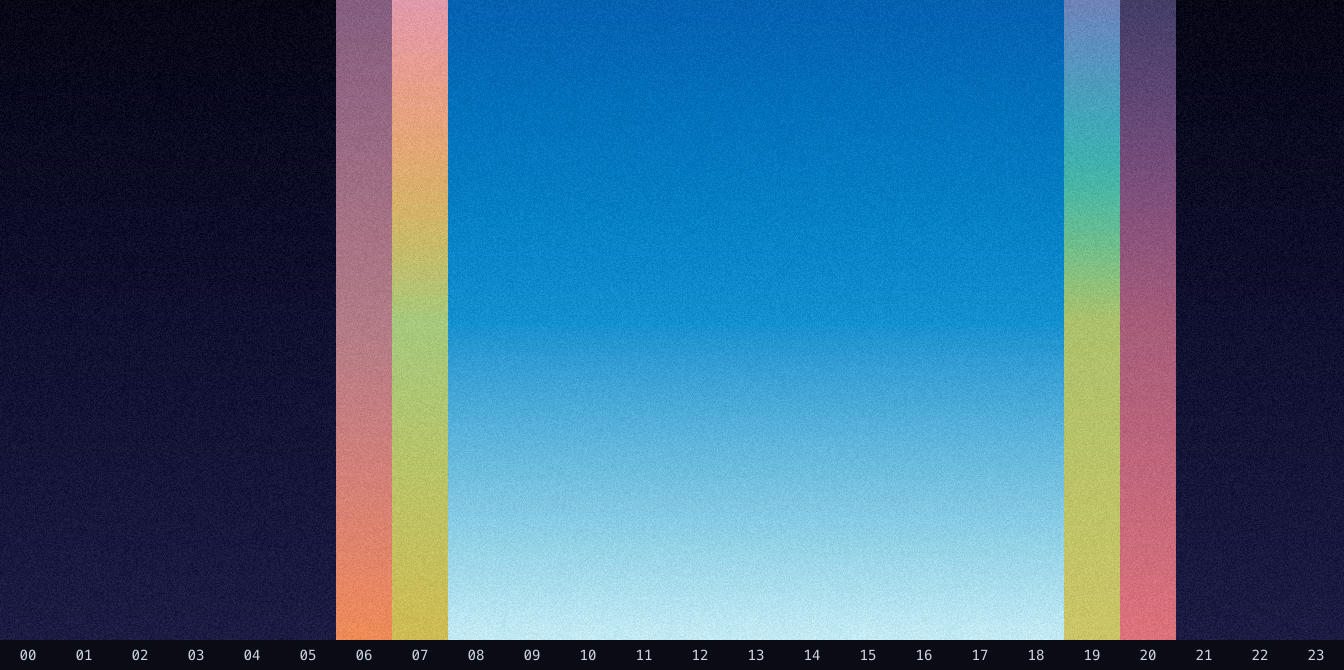
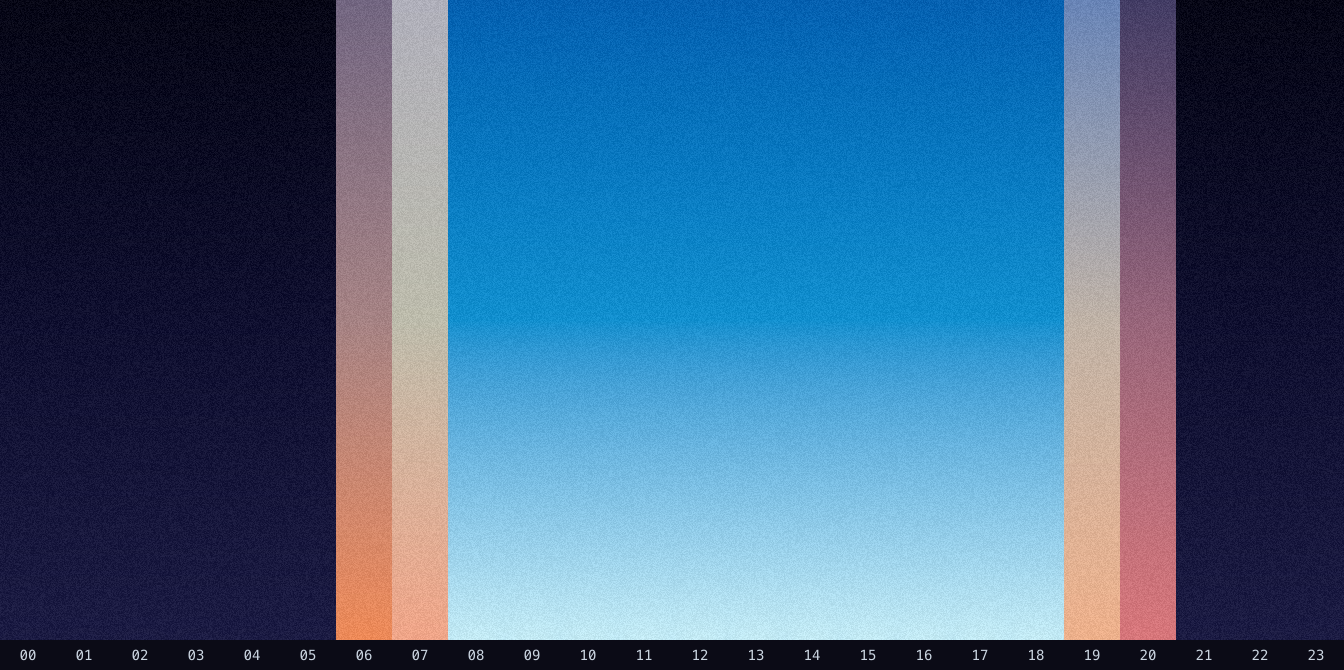
fix(color): replace custom OKLCH blending with culori OKLab
Switch from a custom OKLCH implementation to OKLab via the culori library,
fixing the green hue that appeared during sunset transitions when interpolating
between blue day and warm sunset colors.

Changed region(s): [[0.25, 0.0, 0.3438, 0.9552], [0.7812, 0.0597, 0.875, 0.9552]]

diff --git a/lib/color.ts b/lib/color.ts
@@ -1,84 +1,34 @@
-// Perceptual colour mixing in OKLCH (Björn Ottosson's OKLab in polar form).
-// Blending in OKLCH keeps lightness and chroma perceptually even across the
-// warm/cool sunset transitions, instead of dipping through the muddy grey
-// mid-tones that a naive sRGB lerp produces.
+import { interpolate, converter, clampRgb, formatHex } from 'culori'
 
-export type Oklab = [number, number, number] // L, a, b
-export type Oklch = [number, number, number] // L, C, h (radians)
+// Perceptual colour mixing in OKLab (via culori). OKLab interpolates lightness
+// and the a/b axes directly, so warm/cool transitions pass through a neutral
+// midpoint instead of arcing through unrelated hues (the green that OKLCH's
+// shortest hue path produced between the blue day palette and warm sunsets).
 
-function srgbToLinear(c: number): number {
-  c /= 255
-  return c <= 0.04045 ? c / 12.92 : Math.pow((c + 0.055) / 1.055, 2.4)
+const toRgb = converter('rgb')
+
+/** Blend two colours in OKLab and return a hex string. */
+export function mixHex(a: string, b: string, t: number): string {
+  return formatHex(interpolate([a, b], 'oklab')(t))
 }
 
-function linearToSrgb(c: number): number {
-  const v = c <= 0.0031308 ? c * 12.92 : 1.055 * Math.pow(c, 1 / 2.4) - 0.055
-  return Math.round(Math.max(0, Math.min(1, v)) * 255)
+export interface Ramp {
+  /** sRGB bytes [r, g, b] at position t in [0,1]. */
+  rgbAt(t: number): [number, number, number]
+  /** Hex colour at position t in [0,1]. */
+  hexAt(t: number): string
 }
 
-export function hexToOklab(hex: string): Oklab {
-  const r = srgbToLinear(parseInt(hex.slice(1, 3), 16))
-  const g = srgbToLinear(parseInt(hex.slice(3, 5), 16))
-  const b = srgbToLinear(parseInt(hex.slice(5, 7), 16))
-  const l = Math.cbrt(0.4122214708 * r + 0.5363325363 * g + 0.0514459929 * b)
-  const m = Math.cbrt(0.2119034982 * r + 0.6806995451 * g + 0.1073969566 * b)
-  const s = Math.cbrt(0.0883024619 * r + 0.2817188376 * g + 0.6299787005 * b)
-  return [
-    0.2104542553 * l + 0.7936177850 * m - 0.0040720468 * s,
-    1.9779984951 * l - 2.4285922050 * m + 0.4505937099 * s,
-    0.0259040371 * l + 0.7827717662 * m - 0.8086757660 * s,
-  ]
-}
-
-export function oklabToRgb([L, a, b]: Oklab): [number, number, number] {
-  const l_ = L + 0.3963377774 * a + 0.2158037573 * b
-  const m_ = L - 0.1055613458 * a - 0.0638541728 * b
-  const s_ = L - 0.0894841775 * a - 1.2914855480 * b
-  const l = l_ * l_ * l_
-  const m = m_ * m_ * m_
-  const s = s_ * s_ * s_
-  return [
-    linearToSrgb(4.0767416621 * l - 3.3077115913 * m + 0.2309699292 * s),
-    linearToSrgb(-1.2684380046 * l + 2.6097574011 * m - 0.3413193965 * s),
-    linearToSrgb(-0.0041960863 * l - 0.7034186147 * m + 1.7076147010 * s),
-  ]
-}
-
-export function oklabToOklch([L, a, b]: Oklab): Oklch {
-  let h = Math.atan2(b, a)
-  if (h < 0) h += 2 * Math.PI
-  return [L, Math.hypot(a, b), h]
-}
-
-export function oklchToOklab([L, C, h]: Oklch): Oklab {
-  return [L, C * Math.cos(h), C * Math.sin(h)]
-}
-
-export function hexToOklch(hex: string): Oklch {
-  return oklabToOklch(hexToOklab(hex))
-}
-
-function rgbToHex([r, g, b]: [number, number, number]): string {
-  return '#' + [r, g, b].map(c => c.toString(16).padStart(2, '0')).join('')
-}
-
-export function oklchToRgb(c: Oklch): [number, number, number] {
-  return oklabToRgb(oklchToOklab(c))
-}
-
-export function oklchToHex(c: Oklch): string {
-  return rgbToHex(oklchToRgb(c))
-}
-
-// Interpolate two OKLCH colours, taking the shortest path around the hue circle
-// and carrying a defined hue when the other endpoint is (near-)achromatic.
-export function mixOklch(a: Oklch, b: Oklch, t: number): Oklch {
-  let [L1, C1, h1] = a
-  let [L2, C2, h2] = b
-  if (C1 < 1e-4) h1 = h2
-  else if (C2 < 1e-4) h2 = h1
-  let dh = h2 - h1
-  if (dh > Math.PI) dh -= 2 * Math.PI
-  else if (dh < -Math.PI) dh += 2 * Math.PI
-  return [L1 + (L2 - L1) * t, C1 + (C2 - C1) * t, h1 + dh * t]
+/** A three-stop ramp (core -> mid -> edge, evenly spaced) interpolated in OKLab. */
+export function makeRamp(core: string, mid: string, edge: string): Ramp {
+  const interp = interpolate([core, mid, edge], 'oklab')
+  return {
+    rgbAt(t) {
+      const { r, g, b } = clampRgb(toRgb(interp(t)))
+      return [Math.round(r * 255), Math.round(g * 255), Math.round(b * 255)]
+    },
+    hexAt(t) {
+      return formatHex(interp(t))
+    },
+  }
 }

diff --git a/lib/image.ts b/lib/image.ts
@@ -1,35 +1,22 @@
-import type { SkyColors } from './sky-color'
-import { hexToOklch, mixOklch, oklchToHex, oklchToRgb } from './color'
-import type { Oklch } from './color'
+import type { SkyColors } from './sky-color.js'
+import { makeRamp } from './color.js'
 
 // The glow radiates from a point centred on the bottom edge (the horizon).
 // Horizontal distance is compressed so the gradient stays vertical-dominant —
 // a tall sunset arc rather than a perfect circle — on wide canvases.
 const HORIZ_FACTOR = 0.45
-// Offset of the mid colour stop between core (0) and edge (1).
-const MID_STOP = 0.5
 // Peak-to-peak amplitude of the luminance grain.
 const GRAIN = 20
 // Resolution of the precomputed colour ramp.
 const LUT_STEPS = 1024
 
-// Sample the three-stop ramp (core -> mid -> edge) at t in [0,1], interpolating
-// perceptually in OKLCH.
-function sampleRamp(core: Oklch, mid: Oklch, edge: Oklch, t: number): Oklch {
-  return t < MID_STOP
-    ? mixOklch(core, mid, t / MID_STOP)
-    : mixOklch(mid, edge, (t - MID_STOP) / (1 - MID_STOP))
-}
-
 export function generateSvg({ core, mid, edge }: SkyColors, width = 1920, height = 1080): string {
-  const c = hexToOklch(core)
-  const m = hexToOklch(mid)
-  const e = hexToOklch(edge)
-  // Bake intermediate stops so the SVG gradient follows the OKLCH path too,
+  const ramp = makeRamp(core, mid, edge)
+  // Bake intermediate stops so the SVG gradient follows the OKLab path too,
   // rather than letting the renderer lerp in sRGB.
   const stops = Array.from({ length: 9 }, (_, k) => {
     const t = k / 8
-    return `<stop offset="${(t * 100).toFixed(1)}%" stop-color="${oklchToHex(sampleRamp(c, m, e, t))}"/>`
+    return `<stop offset="${(t * 100).toFixed(1)}%" stop-color="${ramp.hexAt(t)}"/>`
   }).join('\n      ')
 
   return `<svg xmlns="http://www.w3.org/2000/svg" width="${width}" height="${height}" viewBox="0 0 ${width} ${height}">
@@ -48,15 +35,13 @@ export function generateSvg({ core, mid, edge }: SkyColors, width = 1920, height
 }
 
 export async function generatePng({ core, mid, edge }: SkyColors, width = 1920, height = 1080): Promise<Buffer> {
-  const c = hexToOklch(core)
-  const m = hexToOklch(mid)
-  const e = hexToOklch(edge)
+  const ramp = makeRamp(core, mid, edge)
 
   // Precompute the colour ramp once (perceptual conversion is the costly part);
   // the per-pixel loop is then just a table lookup plus grain.
   const lut = new Uint8Array((LUT_STEPS + 1) * 3)
   for (let k = 0; k <= LUT_STEPS; k++) {
-    const [r, g, b] = oklchToRgb(sampleRamp(c, m, e, k / LUT_STEPS))
+    const [r, g, b] = ramp.rgbAt(k / LUT_STEPS)
     lut[k * 3] = r
     lut[k * 3 + 1] = g
     lut[k * 3 + 2] = b

diff --git a/lib/sky-color.ts b/lib/sky-color.ts
@@ -1,7 +1,7 @@
-import { SKY_PHASES } from './constants'
-import type { SkyPhase } from './constants'
-import { hexToOklch, mixOklch, oklchToHex } from './color'
-import type { DayTimes } from './weather'
+import { SKY_PHASES } from './constants.js'
+import type { SkyPhase } from './constants.js'
+import { mixHex } from './color.js'
+import type { DayTimes } from './weather.js'
 
 export interface SkyColors {
   core: string
@@ -9,15 +9,11 @@ export interface SkyColors {
   edge: string
 }
 
-function lerpColor(a: string, b: string, t: number): string {
-  return oklchToHex(mixOklch(hexToOklch(a), hexToOklch(b), t))
-}
-
 function lerp(phaseA: SkyPhase, phaseB: SkyPhase, t: number): SkyColors {
   return {
-    core: lerpColor(phaseA.core, phaseB.core, t),
-    mid: lerpColor(phaseA.mid, phaseB.mid, t),
-    edge: lerpColor(phaseA.edge, phaseB.edge, t),
+    core: mixHex(phaseA.core, phaseB.core, t),
+    mid: mixHex(phaseA.mid, phaseB.mid, t),
+    edge: mixHex(phaseA.edge, phaseB.edge, t),
   }
 }
 

diff --git a/api/sky.ts b/api/sky.ts
@@ -1,8 +1,8 @@
 import type { VercelRequest, VercelResponse } from '@vercel/node'
-import { getWeatherData } from '../lib/weather'
-import { getSkyColors } from '../lib/sky-color'
-import { generateSvg } from '../lib/image'
-import { generatePng } from '../lib/image'
+import { getWeatherData } from '../lib/weather.js'
+import { getSkyColors } from '../lib/sky-color.js'
+import { generateSvg } from '../lib/image.js'
+import { generatePng } from '../lib/image.js'
 
 export default async function handler(req: VercelRequest, res: VercelResponse) {
   const location = (req.query.location as string) || 'Waterloo+Ontario'

diff --git a/scripts/render-test.ts b/scripts/render-test.ts
@@ -32,7 +32,7 @@ function srgbPng({ core, mid, edge }: SkyColors): Promise<Buffer> {
   for (let y = 0; y < H; y++) {
     for (let x = 0; x < W; x++) {
       const dx = (x - cx) * 0.45, dy = y - cy
-      let t = Math.min(1, Math.hypot(dx, dy) / radius)
+      const t = Math.min(1, Math.hypot(dx, dy) / radius)
       const [a, b, u] = t < 0.5 ? [c, m, t / 0.5] : [m, e, (t - 0.5) / 0.5]
       px[i++] = a[0] + (b[0] - a[0]) * u
       px[i++] = a[1] + (b[1] - a[1]) * u

diff --git a/README.md b/README.md
@@ -2,7 +2,7 @@
 
 A serverless endpoint that renders a sky-coloured radial gradient for the
 current time of day at a given location. Colours track the sun: night, dawn,
-sunrise, day, sunset and dusk, blended perceptually in OKLCH with a warm glow
+sunrise, day, sunset and dusk, blended perceptually in OKLab with a warm glow
 radiating from the horizon and a layer of film grain.
 
 ## Day cycle
@@ -34,7 +34,7 @@ back to a clear-day gradient.
   from sunset reference studies.
 - `lib/sky-color.ts` — picks and blends phases for the current time. The warm
   sunrise/sunset window is a fixed 90 minutes on each side of the event.
-- `lib/color.ts` — OKLab/OKLCH conversions and perceptual mixing.
+- `lib/color.ts` — OKLab perceptual colour mixing (via [culori](https://culorijs.org)).
 - `lib/image.ts` — radial gradient + grain rendering (PNG and SVG).
 
 ## Development